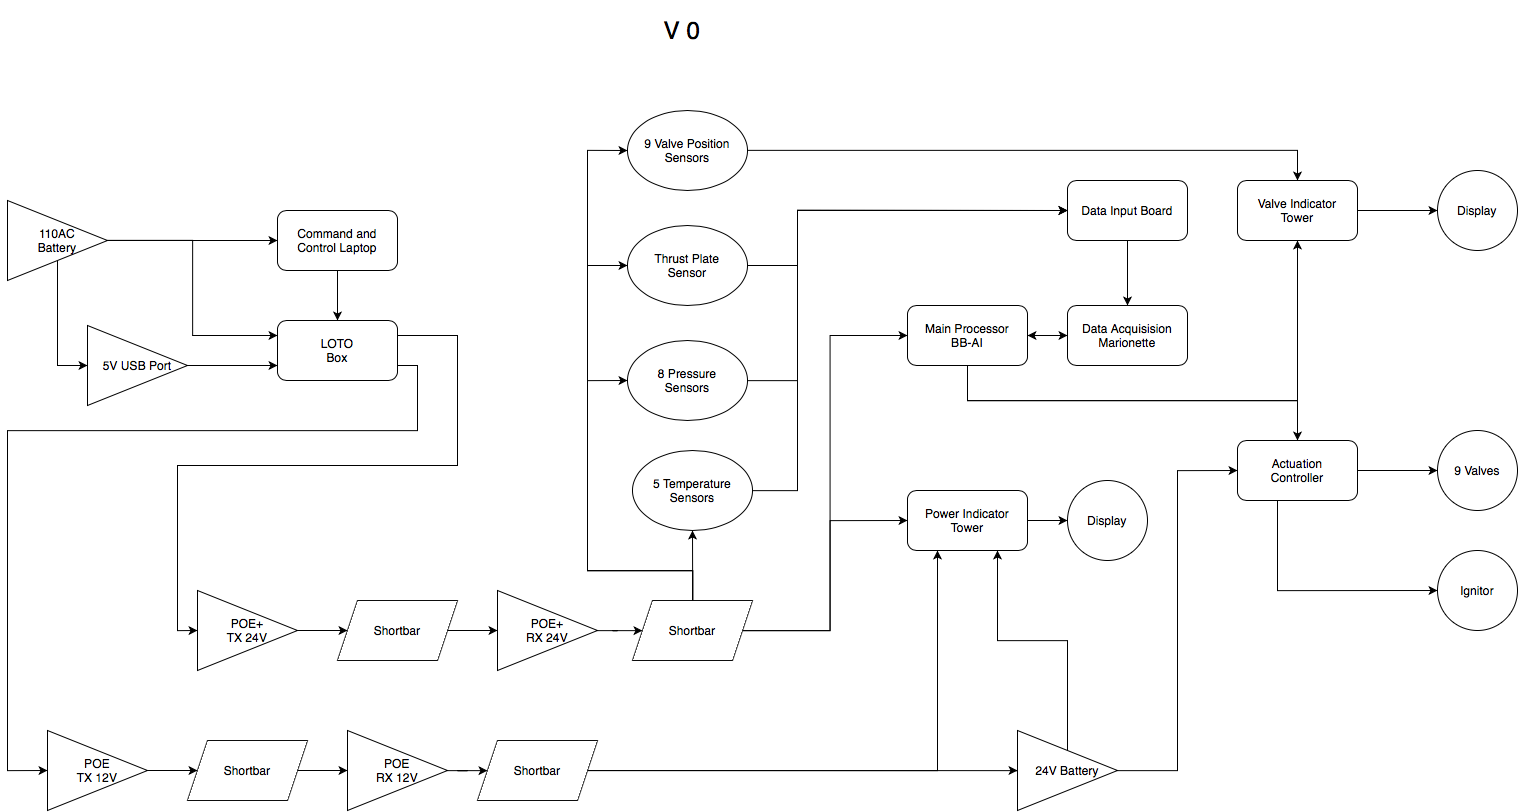
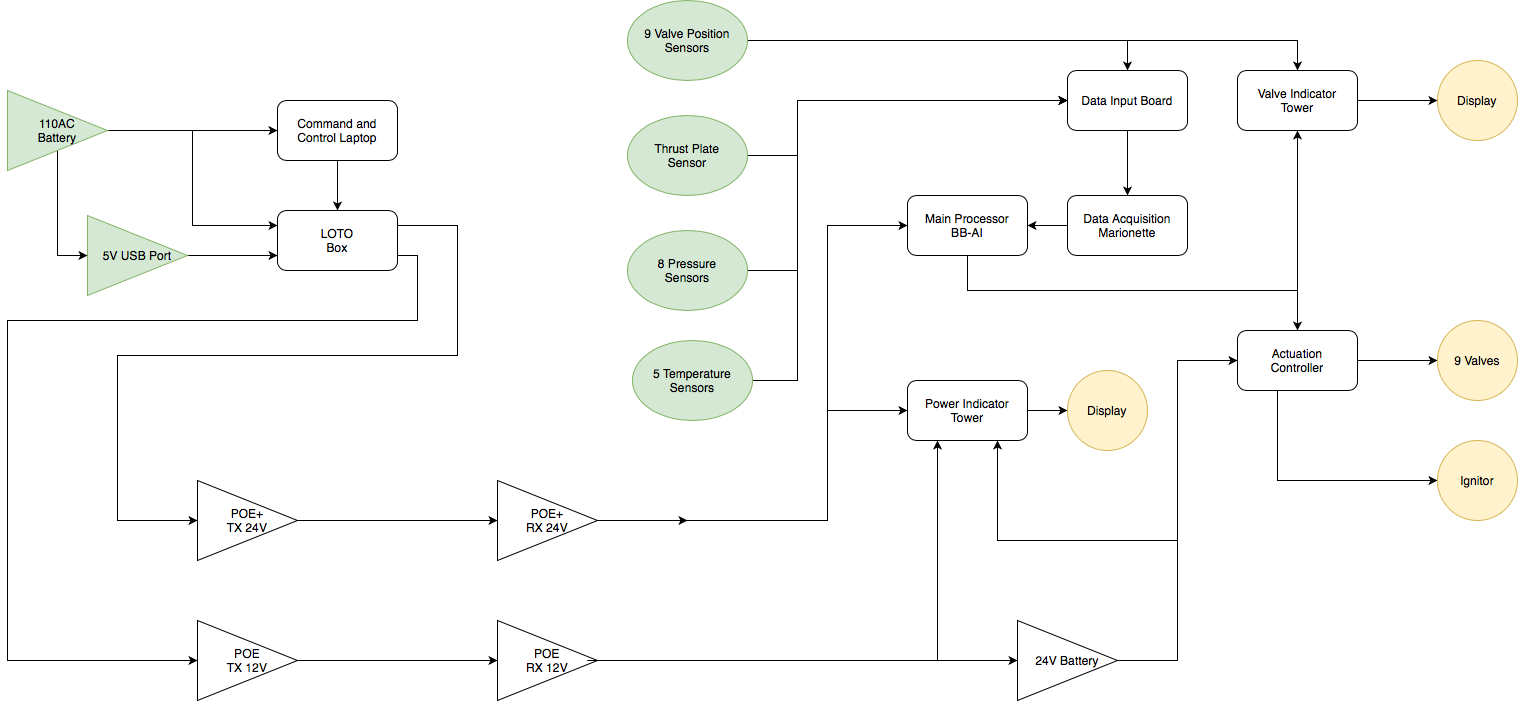
Updated README's, updated/added block diagrams

diff --git a/actuator-controller/README.md b/actuator-controller/README.md
@@ -1,0 +1,16 @@
+# Actuator Controller
+
+The Actuator Controller's purpose is kept as simple as possible: It is to reliably relay control instructions from the Central Manager (the BeagleBone-AI), and at all times monitor basic sensor inputs and the connection to the Central Manager for signs of a failure. Failure is defined as non-nominal sensor conditions; meaning that if pressure and/or temperature readings are outside of nominal ranges or if the physical state of the valves do not match the expected state of the valves (i.e. a valve is potentially stuck or frozen) then the system will go into an automatic shutdown state. The automatic shutdown state purges all propellants from the lines, depressurizes the system, and returns all valves to the Safety State (unpowered). The Actuator Controller requires a consistent heartbeat and emergency response code. If for some reason this heartbeat stops, or any other emergency indicator is tripped, the Actuator Controller will execute the emergency shutdown routine in accordance with the emergency response code most recently sent.
+
+All actuator control is done via the Actuator Controller, which is currently implemented using a Nucleo mounted on a PCB.
+
+The Actuator Controller is the central pathway for all control over actuators. It serves as a final defense against system failure. Its programming is kept as simple as possible, and is focussed solely on producing reliable control signals for all actuators on the test stand. 
+
+
+## Actuator Controller Block Diagram
+
+![ac_block](https://github.com/psas/tsar-hardware/blob/master/images/Actuator_Controller_Block.png?raw=true)
+
+## Actuator Controller Software
+
+All actuator control software and documentation can be found [here](https://github.com/psas/tsar-software). Specifically, [the testing software](https://github.com/psas/tsar-software/tree/master/Actuator%20Controller%20Test), [the firmware](https://github.com/psas/tsar-software/tree/master/Actuator%20Controller%20Firmware), and [the state machine](https://github.com/psas/tsar-software/tree/master/state-machine)

diff --git a/Thrust Plate Amplifier/README.md b/Thrust Plate Amplifier/README.md
@@ -1,0 +1,9 @@
+# Thrust Plate Amplifier
+
+This board amplifies the signals of the four load cells present on the thrust plate. The thrust plate measures the thrust of the liquid fuel engine. The load cells are compression only using part number FC2311-0000-1000-L. The signals from the amplifier are sent to the Sensor Front End board. This amplifier board must be as close as possible to the load cells on the thrust plate; otherwise the signals will be degraded and invalid. 
+
+The thrust plate amplifier is powered by the Sensor Front End board's 12V rail.
+
+## POE+ Block Diagram
+
+![Level 1 Block Diagram](https://github.com/psas/tsar-hardware/blob/master/images/thrust_plate_amplifier_block.png?raw=true)

diff --git a/POE_plus_input/README.md b/POE_plus_input/README.md
@@ -1,3 +1,7 @@
 # POE Plus Input Board
 
 This board takes the main low risk POE+ 24V input and splits it off to provide 24V power to the Valve Indicator Board and the Sensor Front End board. It has a 24V to 5V regulator which provides power to the Central Manager (BB-AI) and the Sensor Front End board. 
+
+## POE+ Block Diagram
+
+![Level 1 Block Diagram](https://github.com/psas/tsar-hardware/blob/master/images/POE_Input_Block_Diagram.png?raw=true)
